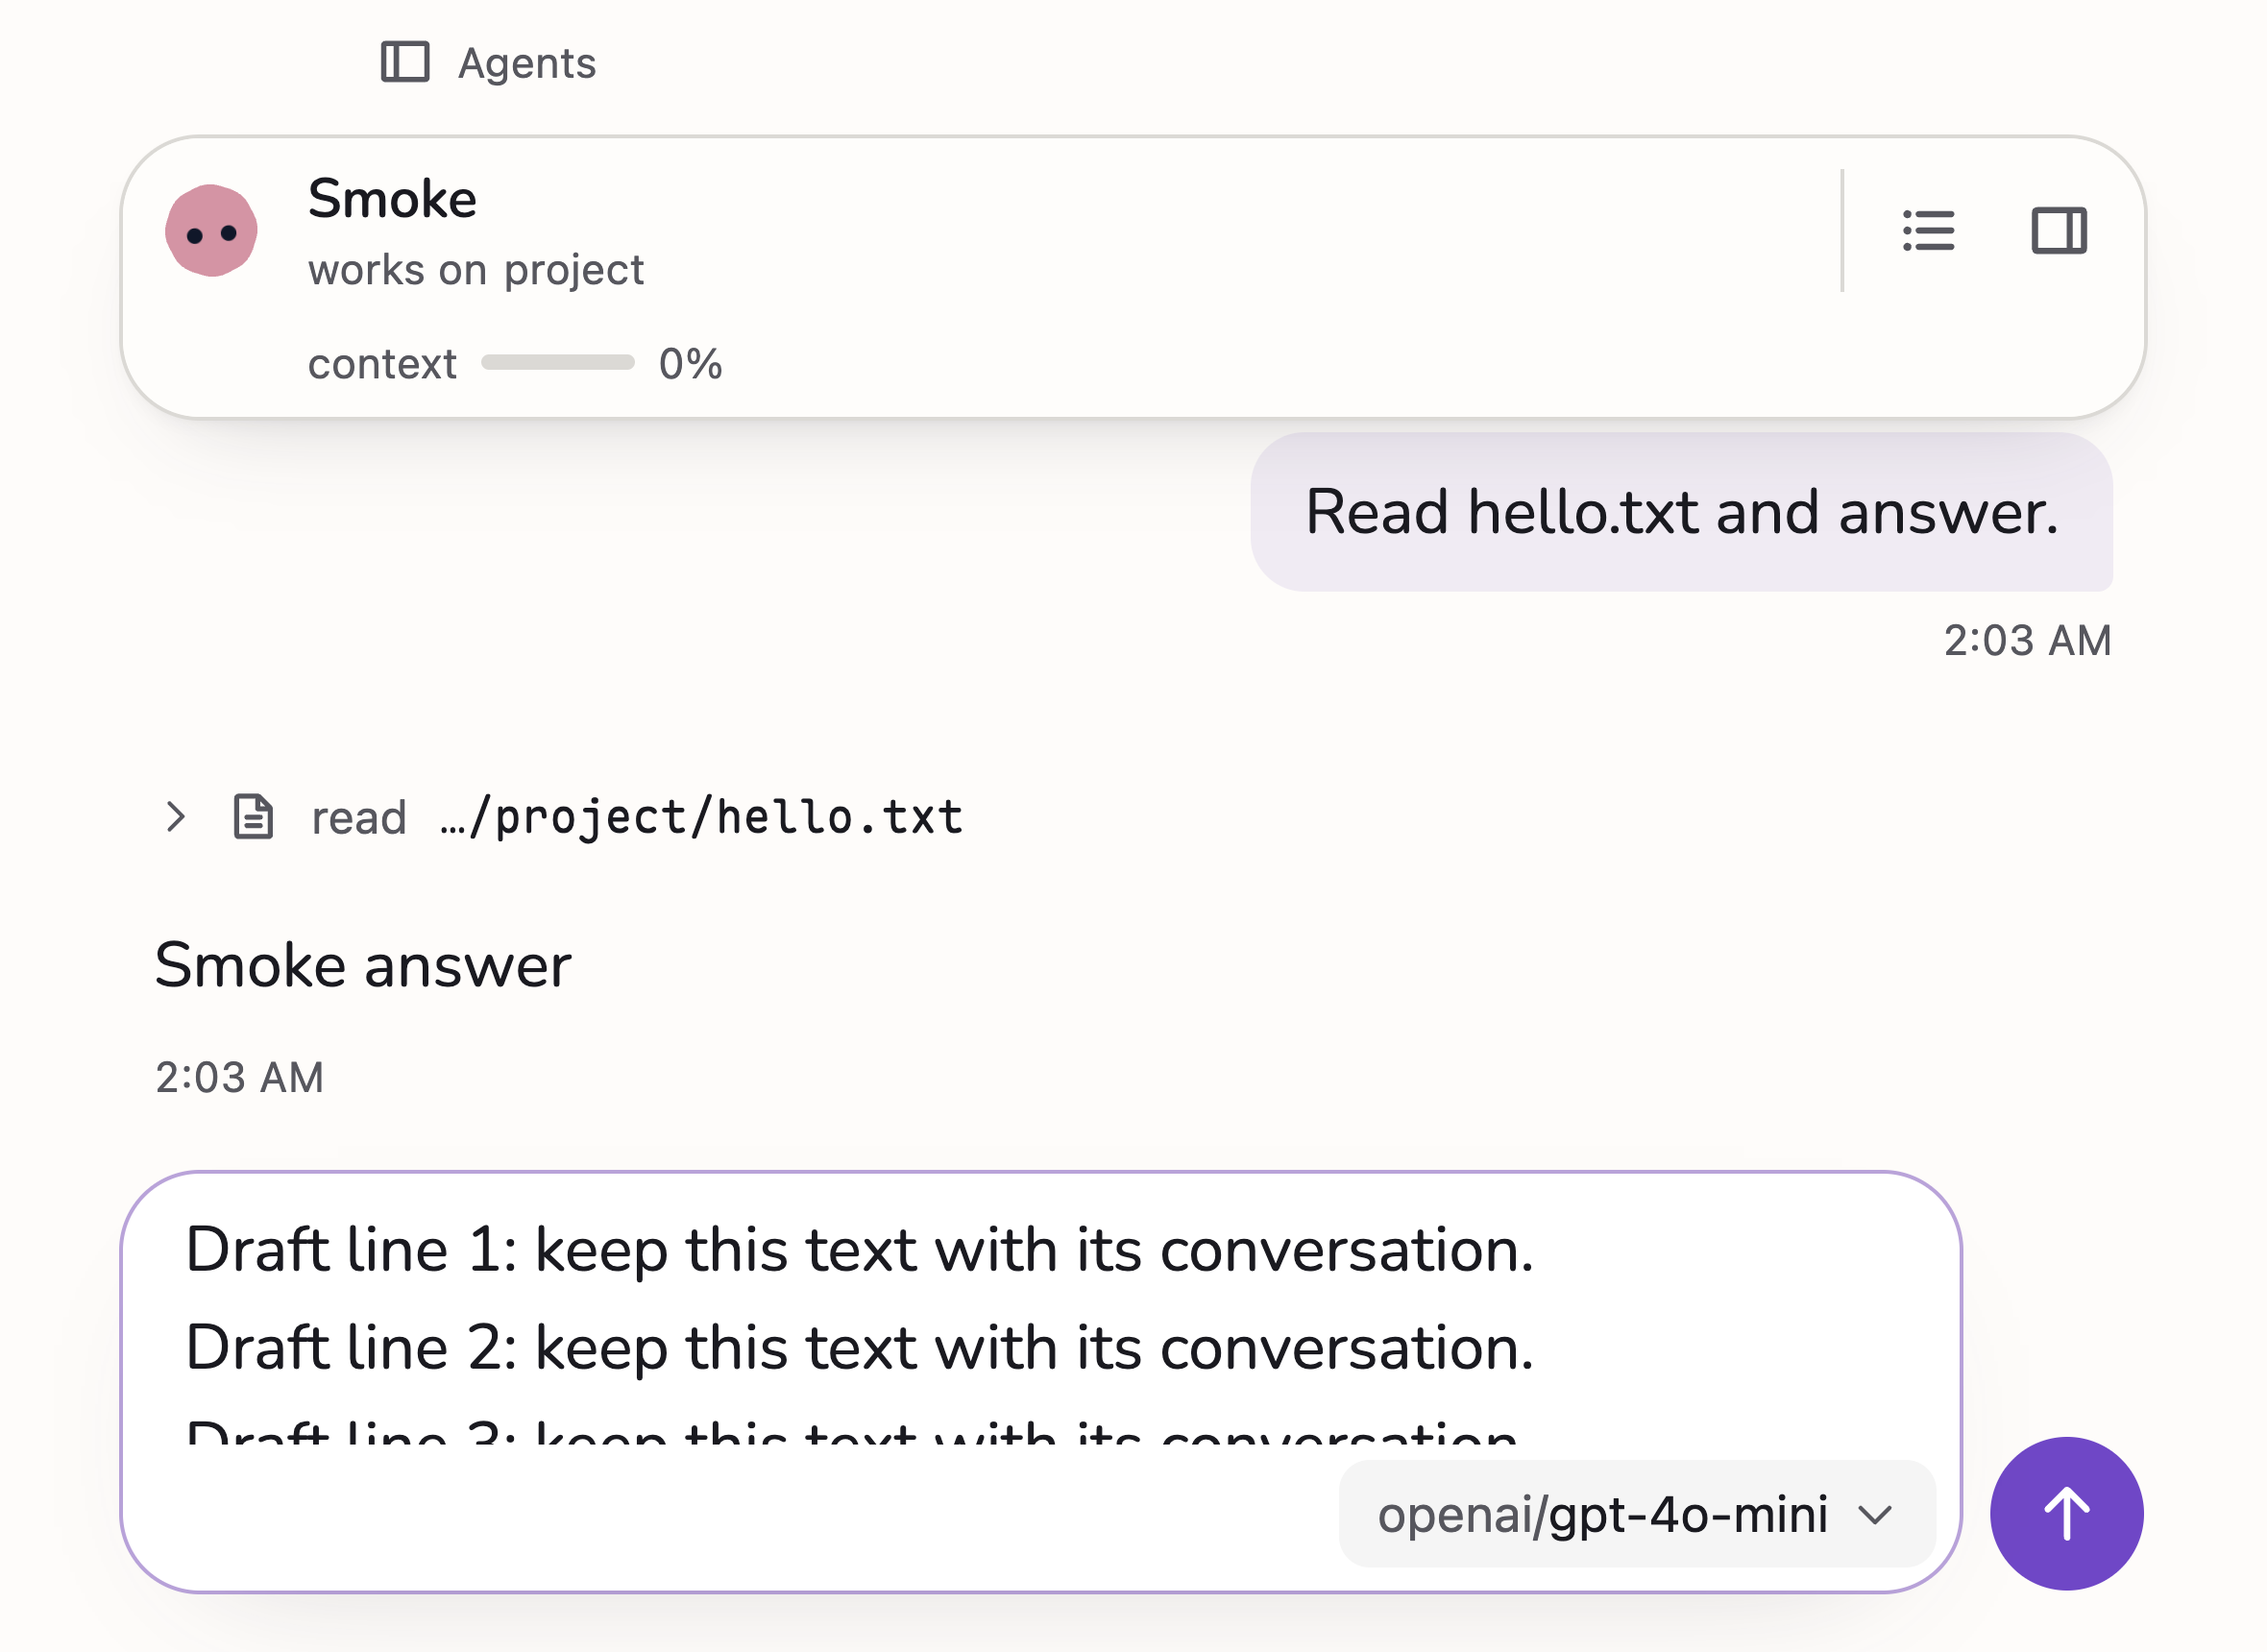
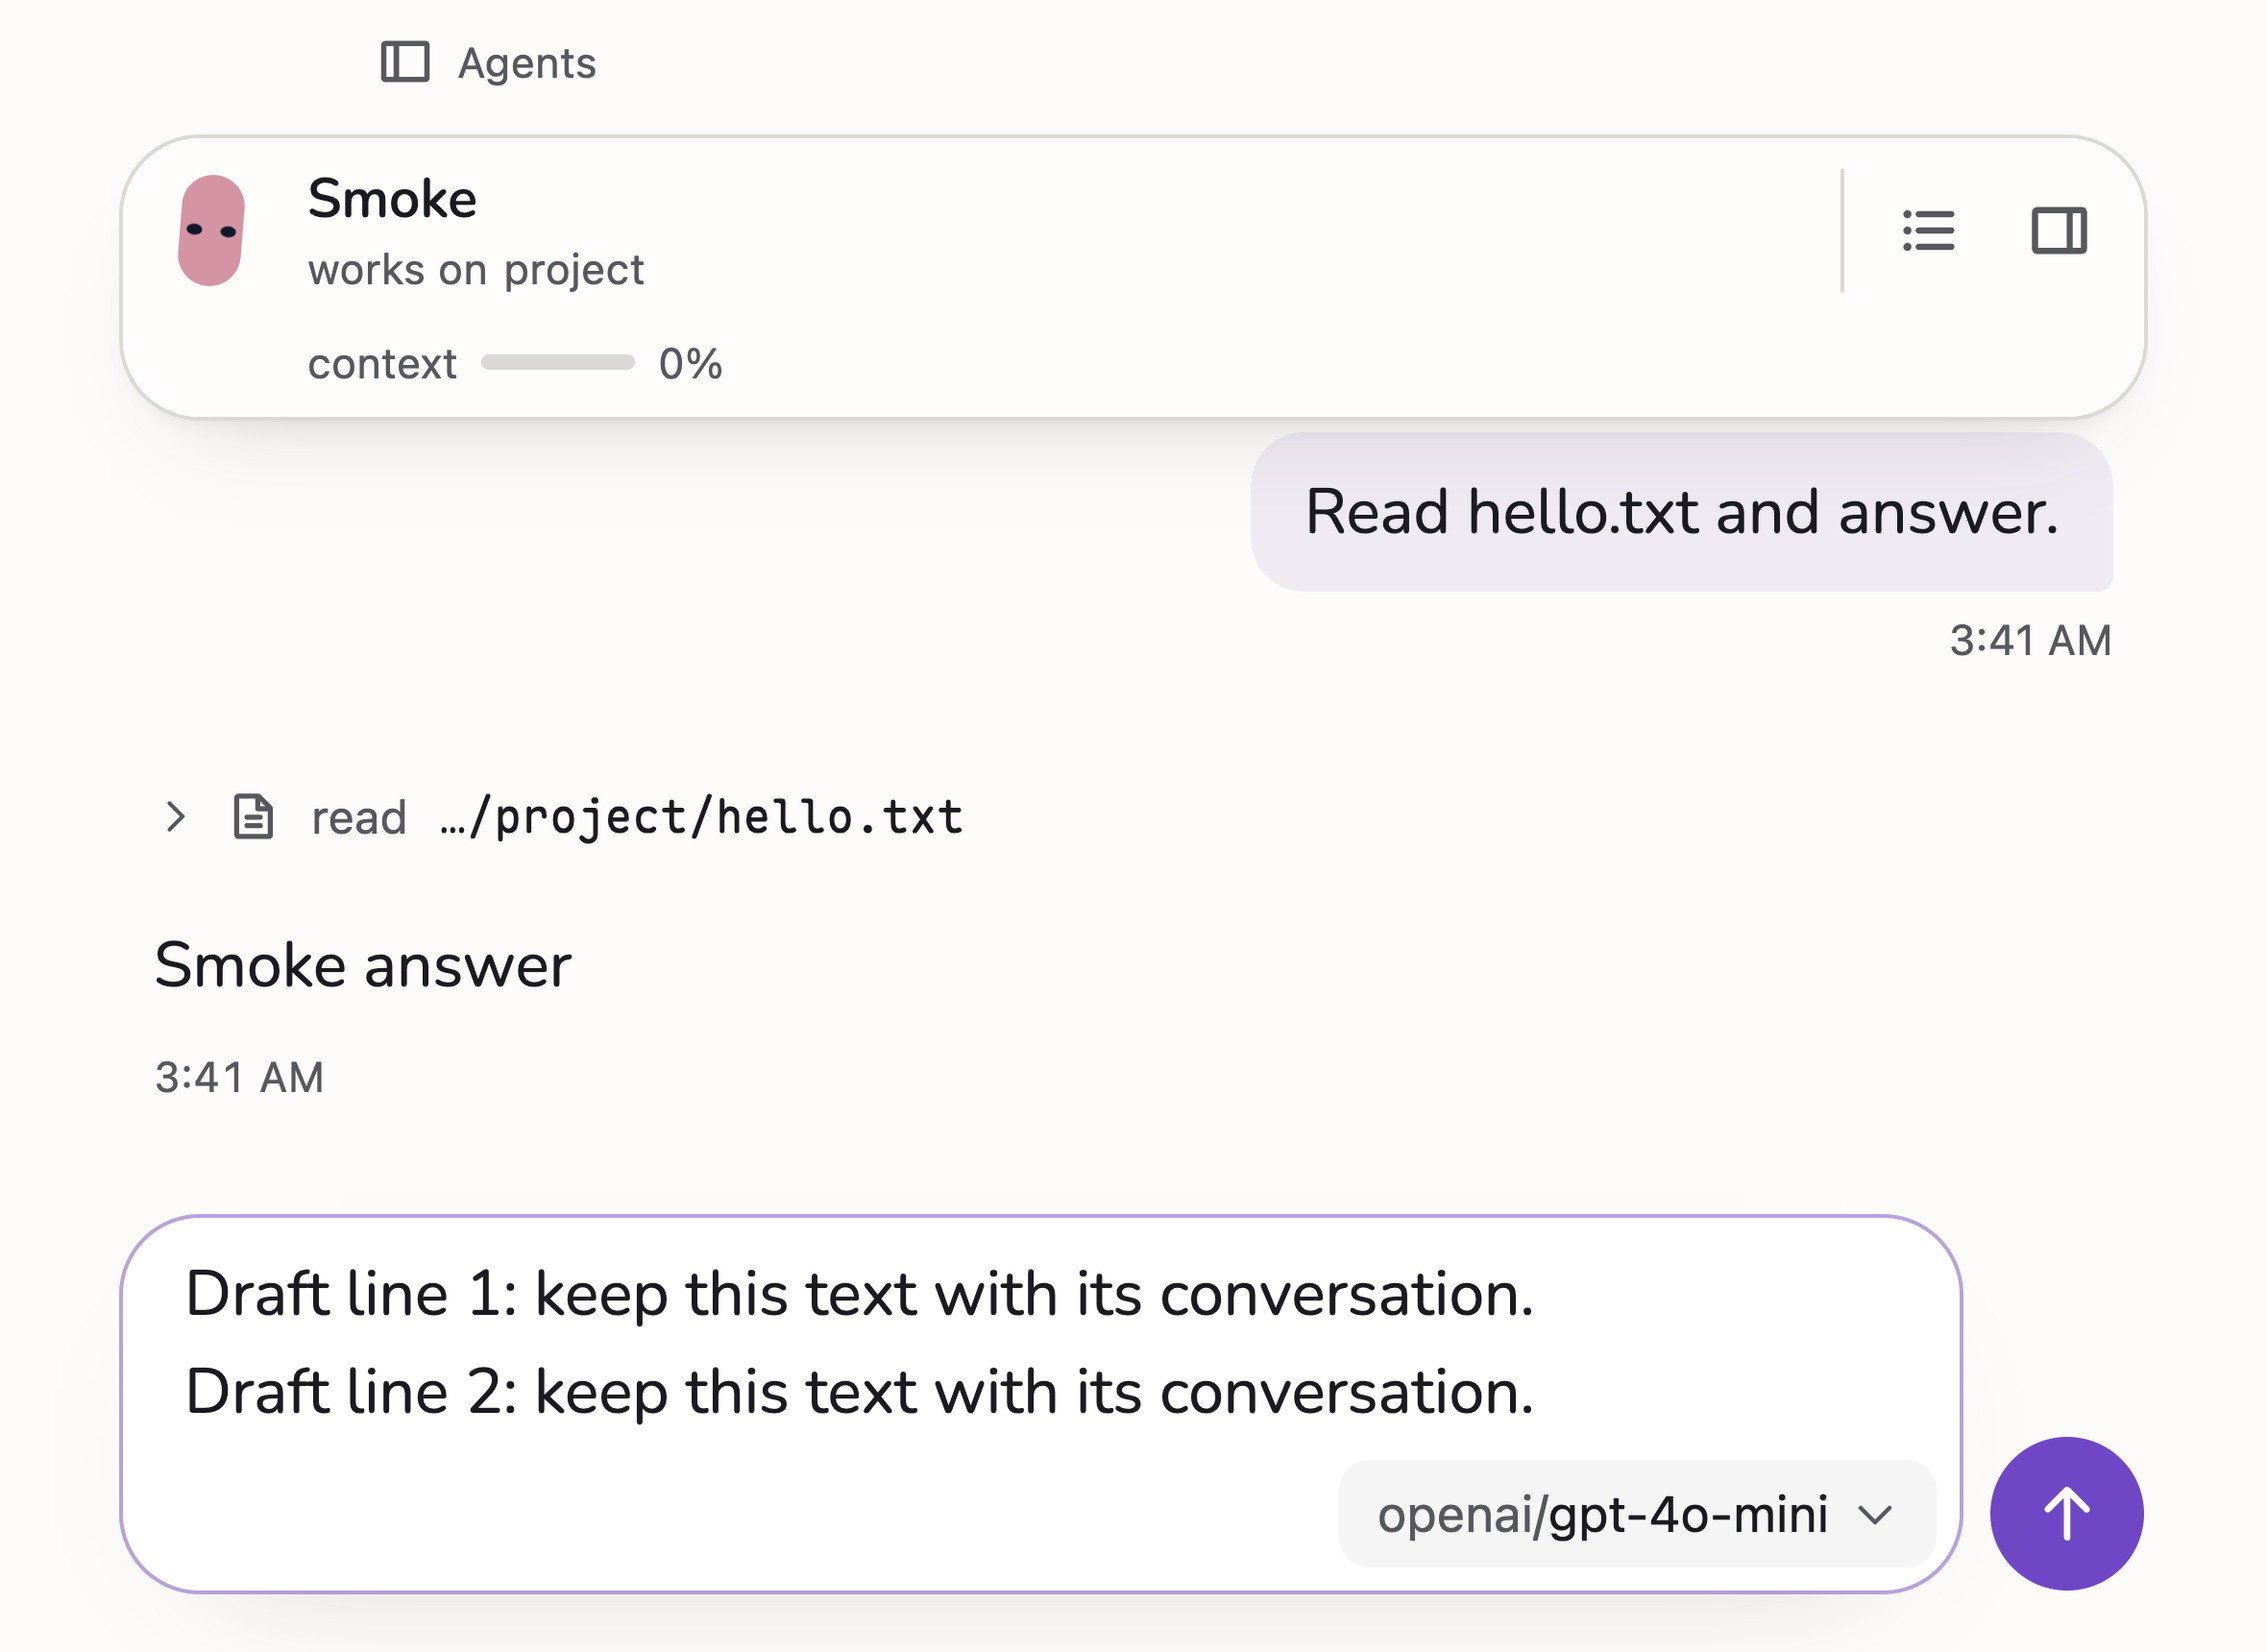
fix(ui): correct compact usage, renaming, and draft sizing

diff --git a/src/renderer/plan-usage.tsx b/src/renderer/plan-usage.tsx
@@ -74,7 +74,7 @@ export function UsageDetail({ plan, context, now = Date.now(), onPage }: Usage) 
   const data = plan?.data;
   const windows = data?.windows ?? [];
   return (
-    <div className="grid grid-cols-[auto_auto_auto_auto] items-center gap-x-2 gap-y-1.5 px-2 py-1.5 text-[11px] whitespace-nowrap text-muted tabular-nums">
+    <div className="usage-detail grid grid-cols-[auto_auto_auto_auto] items-center gap-x-2 gap-y-1.5 px-2 py-1.5 text-[11px] whitespace-nowrap text-muted tabular-nums">
       {windows.map((w) => {
         const reset = resetLabel(w);
         const diff = pace(w, now);
@@ -122,7 +122,7 @@ export function UsageMeter({ plan, context, now, onPage }: Usage) {
     <div
       tabIndex={hasTable ? 0 : undefined}
       aria-label="Usage"
-      className="group pointer-events-auto relative shrink-0 text-[11px] text-muted tabular-nums"
+      className="usage-meter group pointer-events-auto relative shrink-0 text-[11px] text-muted tabular-nums"
     >
       <span className="flex items-center gap-1.5">
         context
@@ -132,7 +132,7 @@ export function UsageMeter({ plan, context, now, onPage }: Usage) {
       {hasTable && (
         // Padding, not margin, so the pointer can reach the link. Opacity, not `display: none`: a link in a hidden
         // box cannot take focus when Tab leaves the meter.
-        <div className="pointer-events-none absolute top-full right-0 pt-3 opacity-0 group-hover:pointer-events-auto group-hover:opacity-100 group-focus-visible:opacity-100 group-has-[:focus-visible]:opacity-100">
+        <div className="usage-details pointer-events-none absolute top-full right-0 pt-3 opacity-0 group-hover:pointer-events-auto group-hover:opacity-100 group-focus-visible:opacity-100 group-has-[:focus-visible]:opacity-100">
           <div className="popover">
             <UsageDetail plan={plan} context={context} now={now} onPage={onPage} />
           </div>

diff --git a/src/renderer/index.css b/src/renderer/index.css
@@ -450,10 +450,12 @@ summary:focus-visible,
 }
 .workbench[data-compact] .conversation-topbar {
   position: static;
+  z-index: 11;
   flex-shrink: 0;
   padding-block: 4px;
 }
 .workbench[data-compact] .conversation-header {
+  position: relative;
   flex-wrap: wrap;
   row-gap: 8px;
 }
@@ -461,6 +463,17 @@ summary:focus-visible,
   order: 1;
   flex-basis: 100%;
   padding-left: 40px;
+}
+.workbench[data-compact] .usage-meter {
+  position: static;
+}
+.workbench[data-compact] .usage-details {
+  left: 0;
+  right: 0;
+}
+.workbench[data-compact] .usage-detail {
+  grid-template-columns: max-content max-content max-content minmax(0, 1fr);
+  white-space: normal;
 }
 .workbench[data-compact] .transcript-scroll {
   padding-top: 0;
@@ -471,8 +484,14 @@ summary:focus-visible,
   padding-top: 4px;
   padding-bottom: 8px;
 }
+.composer {
+  --composer-input-padding: 1px;
+}
 .workbench[data-compact] .composer textarea {
-  max-height: max(28px, 15dvh);
+  max-height: max(
+    28px,
+    calc(round(down, calc(15dvh - 2 * var(--composer-input-padding)), 1lh) + 2 * var(--composer-input-padding))
+  );
 }
 .workbench[data-compact] .veil {
   display: none;

diff --git a/src/renderer/responsive-panel.tsx b/src/renderer/responsive-panel.tsx
@@ -40,6 +40,15 @@ export function ResponsivePanel({
       if (panel.hasAttribute("popover")) panel.hidePopover();
     };
   }, []);
+  useLayoutEffect(() => {
+    const panel = ref.current!;
+    const toggled = (event: ToggleEvent) => {
+      if (overlay && open && event.newState === "closed" && panel.hasAttribute("popover")) onClose();
+    };
+    // React only registers its toggle listener when it sets the popover attribute itself.
+    panel.addEventListener("toggle", toggled);
+    return () => panel.removeEventListener("toggle", toggled);
+  }, [overlay, open, onClose]);
 
   return (
     <aside
@@ -48,9 +57,6 @@ export function ResponsivePanel({
       role={overlay ? "dialog" : undefined}
       tabIndex={overlay ? -1 : undefined}
       className={`responsive-panel ${className ?? ""}`}
-      onToggle={(event) => {
-        if (overlay && open && event.newState === "closed" && event.currentTarget.hasAttribute("popover")) onClose();
-      }}
       onBlur={(event) => {
         if (overlay && open && event.relatedTarget instanceof Node && !event.currentTarget.contains(event.relatedTarget)) onClose();
       }}

diff --git a/src/renderer/composer.tsx b/src/renderer/composer.tsx
@@ -434,8 +434,8 @@ export function Composer({
             }}
             placeholder={view.blocked ?? (busy ? "steer the run…" : "Ask, build, / for commands…")}
             disabled={disabled}
-            // Same leading as the bubble it becomes, so a long message does not reflow on send. 1px keeps one line 28 tall.
-            className={`bubble min-h-7 min-w-0 resize-none bg-transparent py-px outline-none ${stacked ? "basis-full" : "flex-1"}  placeholder:text-muted disabled:opacity-40`}
+            // Match the sent bubble so sending a long draft does not reflow it.
+            className={`bubble min-h-7 min-w-0 resize-none bg-transparent py-[var(--composer-input-padding)] outline-none ${stacked ? "basis-full" : "flex-1"}  placeholder:text-muted disabled:opacity-40`}
           />
           <div ref={chip} className="relative ml-auto min-w-0 max-w-[45%]">
             <Button

diff --git a/src/renderer/App.tsx b/src/renderer/App.tsx
@@ -184,7 +184,6 @@ export default function App() {
           settingsOpen={Boolean(settings)}
           creatingOpen={creating}
           onSelect={(id) => {
-            setSidebarOpen(false);
             setSettings(false);
             setCreating(false);
             if (id !== agentId) void store.selectAgent(id);

diff --git a/docs/interaction.md b/docs/interaction.md
@@ -19,7 +19,8 @@ time, and its avatar's face shows what kind of work it is (docs/ui.md §3); a se
 unreadable list or history replaces the quote. Reading every row's list
 at launch opens each agent's instance. A failed list read is shown on
 that agent's row, not as an empty list. An agent's name can be changed from its row's context menu
-or by double-clicking it; this renames duang's registry entry, never the directory. The window opens
+or by double-clicking it; this renames duang's registry entry, never the directory. Selecting a row
+alone leaves the compact roster open so the second click can still reach it. The window opens
 at a size that fits the sidebar and the reading column, and reopens where it was left; a window whose
 display is gone comes back on an attached one.
 
@@ -119,8 +120,9 @@ the clock (`▼` under, `▲` over), then the context as `45% of 1.0M`. Sign in 
 row in Settings. An API key has no plan windows, so the table is the context alone. Opening a conversation, changing its provider and a run starting or ending ask again; main
 answers from a three-minute cache, since Anthropic's route answers 429 when polled. A failed read
 shows no plan windows, never a stale percentage: the numbers are a glance, and a failure there is
-not something to act on. The context is FastAgent's, once it reports it
-([fastagent#608](https://github.com/fastagent-sh/fastagent/issues/608)).
+not something to act on. In the compact layout the usage table aligns with the conversation header;
+reset details wrap within it rather than extending beyond the window. The context is FastAgent's, once
+it reports it ([fastagent#608](https://github.com/fastagent-sh/fastagent/issues/608)).
 
 A new conversation is made in FastAgent when it is started (the agent's blank one is reused when it has one), so
 it is selectable at once and listed as *New conversation* until something is said in it. Selection reads FastAgent

diff --git a/docs/ui.md b/docs/ui.md
@@ -96,8 +96,8 @@ reading area rather than covering it as the window gets shorter.
 **The composer starts as one row**: the field, with what belongs to the next message (the model chip)
 inside its right end, and one round button that is the next action. The model moves below the text
 before it leaves too little writing space. In the compact layout a long draft scrolls inside a
-viewport-bounded field so the reading area and action stay reachable. There is no attach or voice
-button until either works: a control that can only say it is not there yet is furniture.
+viewport-bounded field, rounded down to complete text lines, so the reading area and action stay reachable.
+There is no attach or voice button until either works: a control that can only say it is not there yet is furniture.
 
 Not included until a real roster stops being readable: pinning, hiding, archiving, folders, a global
 activity row, a permanent third column. Removal is offered where a problem explains it, not one slip
